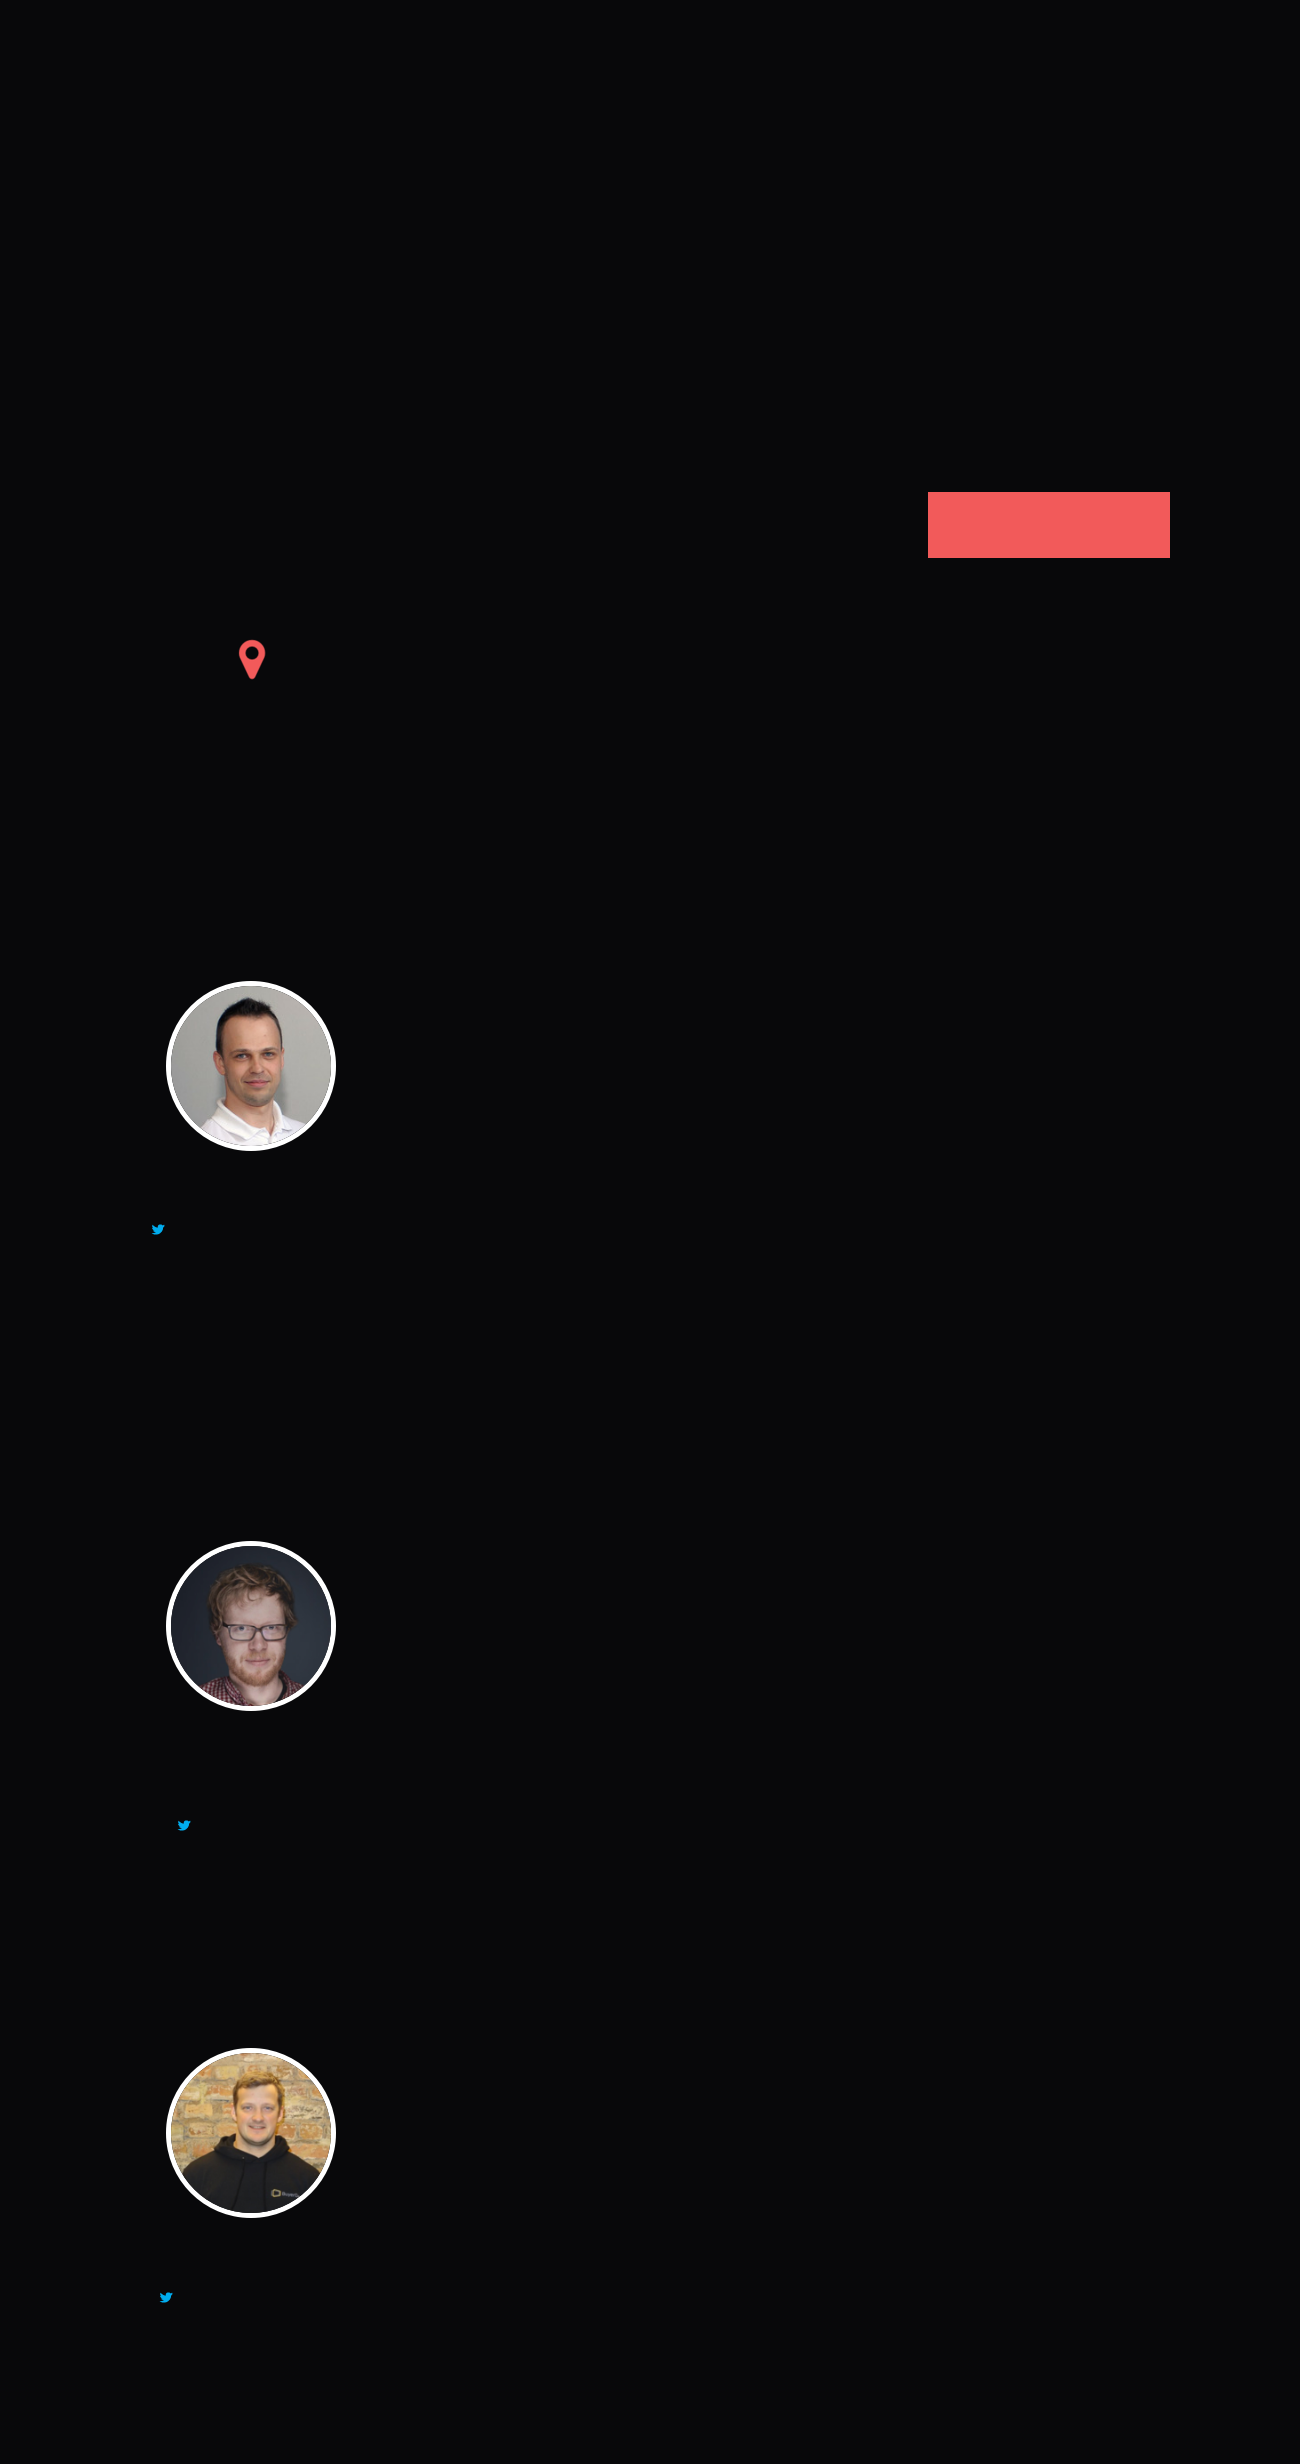
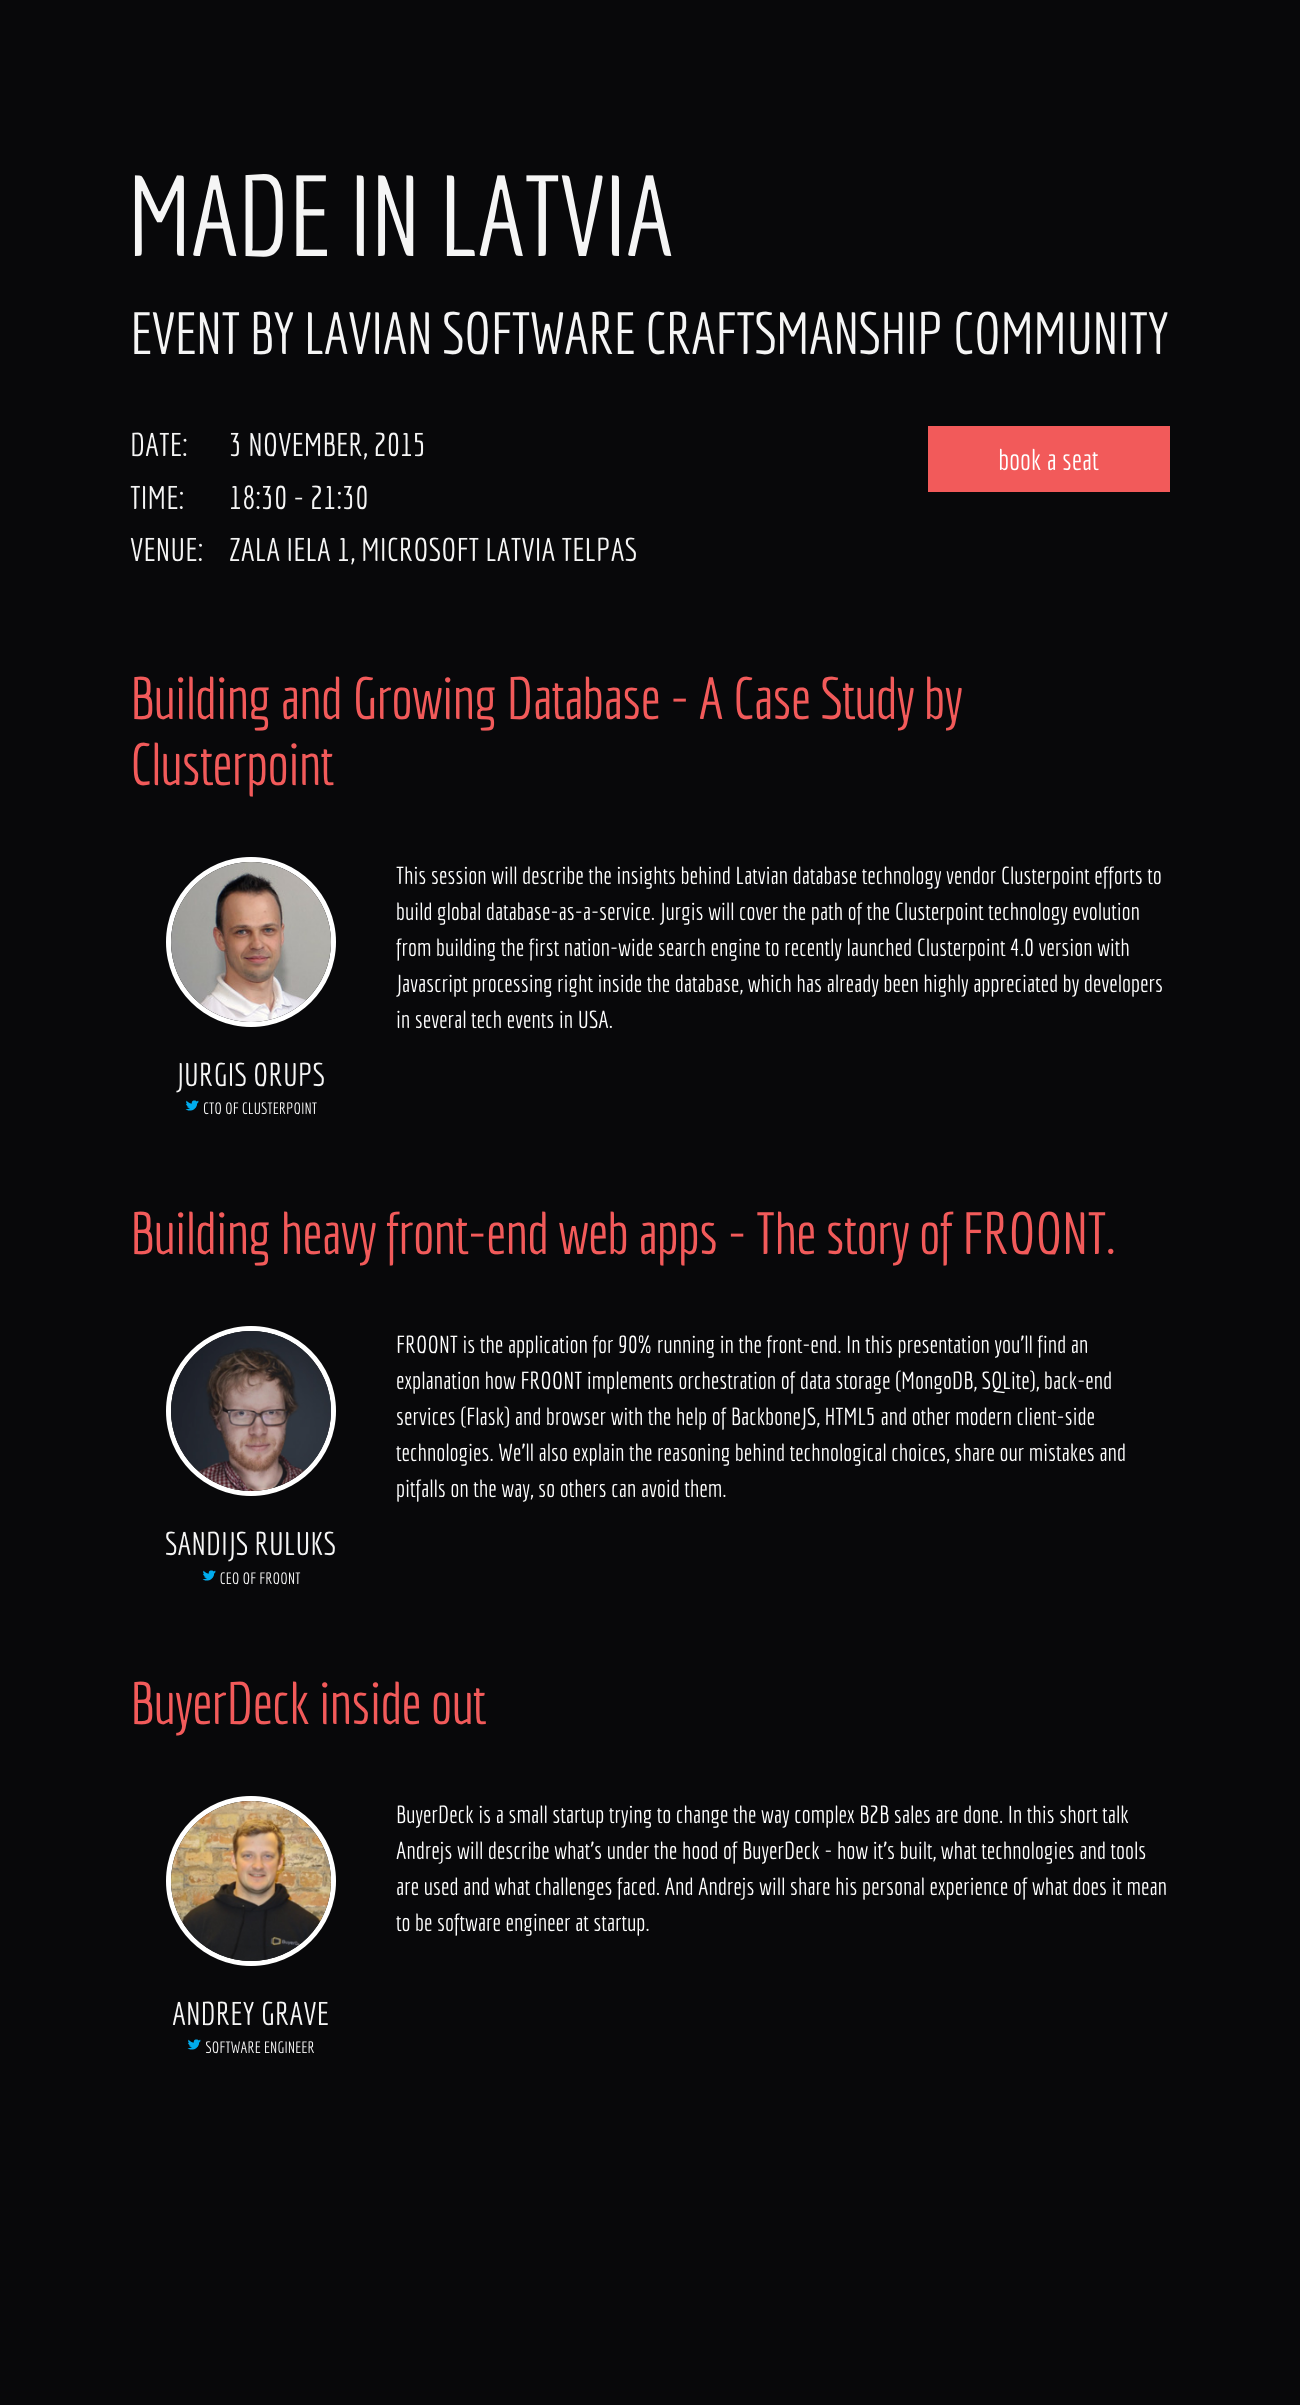
Update 2016-01-16T23:07:01.983Z

diff --git a/2015/madeinlatvia.html b/2015/madeinlatvia.html
@@ -38,7 +38,7 @@
             </div>
             <div class="info"> 
               <h3 class="label">Venue:</h3>
-              <h3 class="detail"> <span>Zala iela 1, Microsoft Latvia telpas &nbsp;<a href="https://www.google.lv/maps/place/Microsoft+Latvia+Sia/@56.9518346,24.1135864,17z/data=!3m1!4b1!4m2!3m1!1s0x46eecfd1895509f1:0x87193c3b2eaf2d7c?hl=en" rel="help"><img src="/img/map.png" alt="Location"></a></span></h3>
+              <h3 class="detail"> <span>Zala iela 1, Microsoft Latvia telpas &nbsp;<a href="https://www.google.lv/maps/place/Microsoft+Latvia+Sia/@56.9518346,24.1135864,17z/data=!3m1!4b1!4m2!3m1!1s0x46eecfd1895509f1:0x87193c3b2eaf2d7c?hl=en" rel="help"><i class="fa fa-map-marker"></i></a></span></h3>
             </div>
           </div>
           <div class="action"><a href="https://www.eventbrite.com/e/latcraft-java-tickets-18712838604" class="button">book a seat										</a></div>

diff --git a/2015/madeinlatvia_og.html b/2015/madeinlatvia_og.html
@@ -38,7 +38,7 @@
             </div>
             <div class="info"> 
               <h3 class="label">Venue:</h3>
-              <h3 class="detail"> <span>Zala iela 1, Microsoft Latvia telpas &nbsp;<a href="https://www.google.lv/maps/place/Microsoft+Latvia+Sia/@56.9518346,24.1135864,17z/data=!3m1!4b1!4m2!3m1!1s0x46eecfd1895509f1:0x87193c3b2eaf2d7c?hl=en" rel="help"><img src="/img/map.png" alt="Location"></a></span></h3>
+              <h3 class="detail"> <span>Zala iela 1, Microsoft Latvia telpas &nbsp;<a href="https://www.google.lv/maps/place/Microsoft+Latvia+Sia/@56.9518346,24.1135864,17z/data=!3m1!4b1!4m2!3m1!1s0x46eecfd1895509f1:0x87193c3b2eaf2d7c?hl=en" rel="help"><i class="fa fa-map-marker"></i></a></span></h3>
             </div>
           </div>
           <div class="action"><a href="https://www.eventbrite.com/e/latcraft-java-tickets-18712838604" class="button">book a seat										</a></div>

diff --git a/img/2015/madeinlatvia.html b/img/2015/madeinlatvia.html
@@ -38,7 +38,7 @@
             </div>
             <div class="info"> 
               <h3 class="label">Venue:</h3>
-              <h3 class="detail"> <span>Zala iela 1, Microsoft Latvia telpas &nbsp;<a href="https://www.google.lv/maps/place/Microsoft+Latvia+Sia/@56.9518346,24.1135864,17z/data=!3m1!4b1!4m2!3m1!1s0x46eecfd1895509f1:0x87193c3b2eaf2d7c?hl=en" rel="help"><img src="/img/map.png" alt="Location"></a></span></h3>
+              <h3 class="detail"> <span>Zala iela 1, Microsoft Latvia telpas &nbsp;<a href="https://www.google.lv/maps/place/Microsoft+Latvia+Sia/@56.9518346,24.1135864,17z/data=!3m1!4b1!4m2!3m1!1s0x46eecfd1895509f1:0x87193c3b2eaf2d7c?hl=en" rel="help"><i class="fa fa-map-marker"></i></a></span></h3>
             </div>
           </div>
           <div class="action"><a href="https://www.eventbrite.com/e/latcraft-java-tickets-18712838604" class="button">book a seat										</a></div>

diff --git a/img/2015/madeinlatvia_og.html b/img/2015/madeinlatvia_og.html
@@ -38,7 +38,7 @@
             </div>
             <div class="info"> 
               <h3 class="label">Venue:</h3>
-              <h3 class="detail"> <span>Zala iela 1, Microsoft Latvia telpas &nbsp;<a href="https://www.google.lv/maps/place/Microsoft+Latvia+Sia/@56.9518346,24.1135864,17z/data=!3m1!4b1!4m2!3m1!1s0x46eecfd1895509f1:0x87193c3b2eaf2d7c?hl=en" rel="help"><img src="/img/map.png" alt="Location"></a></span></h3>
+              <h3 class="detail"> <span>Zala iela 1, Microsoft Latvia telpas &nbsp;<a href="https://www.google.lv/maps/place/Microsoft+Latvia+Sia/@56.9518346,24.1135864,17z/data=!3m1!4b1!4m2!3m1!1s0x46eecfd1895509f1:0x87193c3b2eaf2d7c?hl=en" rel="help"><i class="fa fa-map-marker"></i></a></span></h3>
             </div>
           </div>
           <div class="action"><a href="https://www.eventbrite.com/e/latcraft-java-tickets-18712838604" class="button">book a seat										</a></div>
